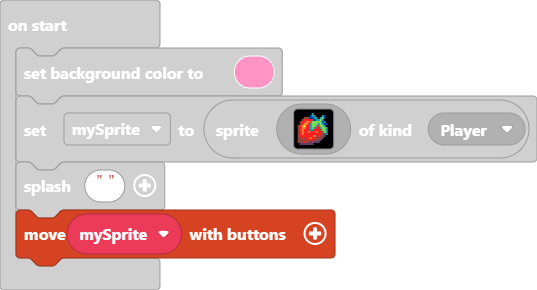
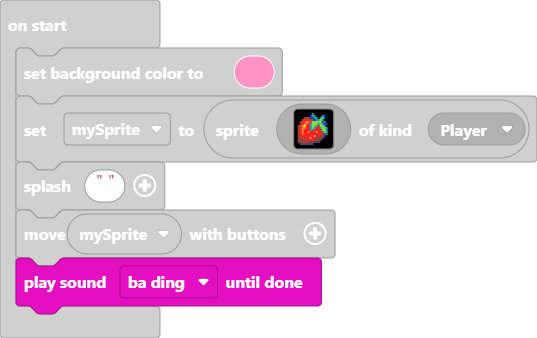
Update main.blocks, main.ts

diff --git a/main.ts b/main.ts
@@ -19,3 +19,4 @@ let mySprite = sprites.create(img`
     `, SpriteKind.Player)
 game.splash("")
 controller.moveSprite(mySprite)
+music.baDing.playUntilDone()
